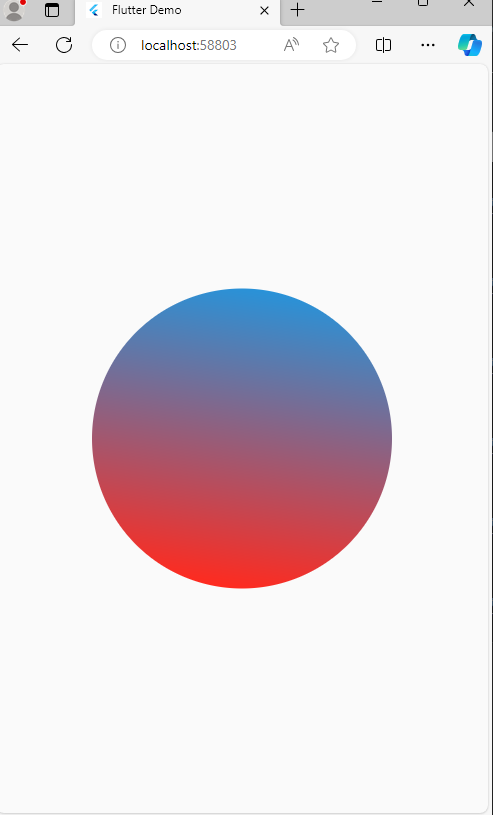
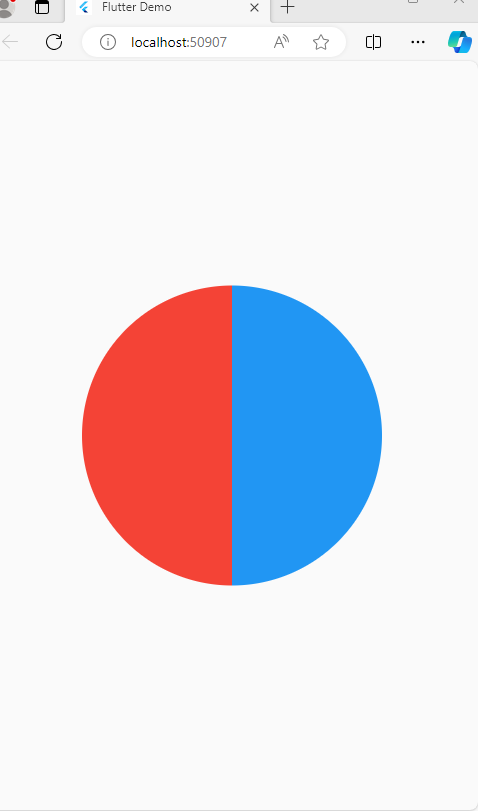
Day 4

diff --git a/Day1/assignment1/lib/ques18.dart b/Day1/assignment1/lib/ques18.dart
@@ -1,0 +1,50 @@
+// Create a screen and then add a floating action button.In thid button, you will have to display your name and an icon which must be placed in a row.
+
+import 'package:flutter/material.dart';
+
+class question18 extends StatefulWidget {
+  const question18({super.key});
+
+  @override
+  State<question18> createState() => _question18State();
+}
+
+class _question18State extends State<question18> {
+  @override
+  Widget build(BuildContext context) {
+    return Scaffold(
+      body: Center(
+        child: Column(
+          mainAxisAlignment: MainAxisAlignment.center,
+          children: [
+            SizedBox(
+              width: 200, // Adjust the width of the SizedBox as needed
+              height: 200, // Adjust the height of the SizedBox as needed
+              child: FloatingActionButton(
+                backgroundColor: Color.fromARGB(255, 38, 123, 202),
+                onPressed: () {},
+                child: const Row(
+                  mainAxisAlignment: MainAxisAlignment.center,
+                  children: [
+                    Icon(
+                      Icons.person,
+                    ),
+                    SizedBox(
+                      width: 40,
+                    ),
+                    Text(
+                      "Vinay",
+                      style: TextStyle(
+                        fontSize: 20,
+                      ),
+                    ),
+                  ],
+                ),
+              ),
+            ),
+          ],
+        ),
+      ),
+    );
+  }
+}

diff --git a/Day1/assignment1/lib/ques17.dart b/Day1/assignment1/lib/ques17.dart
@@ -1,0 +1,38 @@
+// Create an elevatedbutton in the center of the screen .The button must have rounded edges.Give a shadow of color red to button.
+
+// 1. The button must be circular.
+// 2. Size must be 200X200.
+// 3. Button must have border of red color.
+
+import 'package:flutter/material.dart';
+
+class question17 extends StatefulWidget {
+  const question17({super.key});
+
+  @override
+  State<question17> createState() => _question17State();
+}
+
+class _question17State extends State<question17> {
+  @override
+  Widget build(BuildContext context) {
+    return Scaffold(
+      body: Center(
+        child: ElevatedButton(
+          style: ElevatedButton.styleFrom(
+            shape: const RoundedRectangleBorder(
+                borderRadius: BorderRadius.all(Radius.circular(100))),
+            shadowColor: Colors.red,
+            elevation: 10,
+            fixedSize: const Size(200, 200),
+            side: const BorderSide(
+              color: Colors.red,
+            ),
+          ),
+          onPressed: () {},
+          child: const Text("Click"),
+        ),
+      ),
+    );
+  }
+}

diff --git a/Day1/assignment1/lib/ques20.dart b/Day1/assignment1/lib/ques20.dart
@@ -1,0 +1,39 @@
+// Create screen and a floatingactionbutton in the bottom center of the screen when button is long pressed change the color to purple.
+
+import 'package:flutter/material.dart';
+
+class question20 extends StatefulWidget {
+  const question20({super.key});
+
+  @override
+  State<question20> createState() => _question20State();
+}
+
+class _question20State extends State<question20> {
+  Color changedColor = Colors.orange;
+  @override
+  Widget build(BuildContext context) {
+    return Scaffold(
+        body: Center(
+      child: Column(
+        mainAxisAlignment: MainAxisAlignment.end,
+        crossAxisAlignment: CrossAxisAlignment.center,
+        children: [
+          SizedBox(
+            width: 100,
+            height: 100,
+            child: FloatingActionButton(
+              backgroundColor: changedColor,
+              onPressed: () {
+                setState(() {
+                  changedColor = Colors.purple;
+                });
+              },
+              child: const Text("Click me"),
+            ),
+          ),
+        ],
+      ),
+    ));
+  }
+}

diff --git a/Day1/assignment1/lib/ques15.dart b/Day1/assignment1/lib/ques15.dart
@@ -16,23 +16,19 @@ class _question15State extends State<question15> {
   Widget build(BuildContext context) {
     return Scaffold(
       body: Center(
-        child: Container(
-          width: 300,
-          height: 300,
-          decoration: const BoxDecoration(
-            shape: BoxShape.circle,
-            gradient: LinearGradient(
-              begin: Alignment.centerLeft,
-              end: Alignment.centerRight,
-              transform: GradientRotation(30),
-              colors: [
-                Color.fromRGBO(255, 34, 22, 11),
-                Color.fromRGBO(32, 142, 215, 0.961),
-              ],
-            ),
+          child: Container(
+        width: 300,
+        height: 300,
+        decoration: const BoxDecoration(
+          shape: BoxShape.circle,
+          gradient: LinearGradient(
+            colors: [Colors.red, Colors.blue],
+            begin: Alignment.centerLeft,
+            end: Alignment.centerRight,
+            stops: [0.5, 0.5],
           ),
         ),
-      ),
+      )),
     );
   }
 }

diff --git a/Day1/assignment1/lib/ques16.dart b/Day1/assignment1/lib/ques16.dart
@@ -1,0 +1,35 @@
+import 'package:flutter/material.dart';
+import 'package:google_fonts/google_fonts.dart';
+
+class question16 extends StatefulWidget {
+  const question16({super.key});
+
+  @override
+  State<question16> createState() => _question16State();
+}
+
+class _question16State extends State<question16> {
+  @override
+  Widget build(BuildContext context) {
+    return Scaffold(
+      body: Center(
+        child: ElevatedButton(
+          style: ElevatedButton.styleFrom(
+            shadowColor: Colors.red,
+            elevation: 5,
+            shape: RoundedRectangleBorder(
+              borderRadius: BorderRadius.circular(30),
+            ),
+          ),
+          onPressed: () {},
+          child: Text(
+            "Click me",
+            style: GoogleFonts.quicksand(
+              fontWeight: FontWeight.w800,
+            ),
+          ),
+        ),
+      ),
+    );
+  }
+}

diff --git a/Day1/assignment1/lib/ques19.dart b/Day1/assignment1/lib/ques19.dart
@@ -1,0 +1,34 @@
+// Add a floating action button on the screen and when we hover over the button the color of the button must become orange.
+
+import 'package:flutter/material.dart';
+
+class question19 extends StatefulWidget {
+  const question19({super.key});
+
+  @override
+  State<question19> createState() => _question19State();
+}
+
+class _question19State extends State<question19> {
+  bool hover = false;
+  @override
+  Widget build(BuildContext context) {
+    return Scaffold(
+      body: Center(
+        child: Container(
+          width: 200,
+          height: 100,
+          child: FloatingActionButton(
+            hoverColor: Colors.orange,
+            onPressed: () {
+              setState(() {
+                (hover) ? Colors.orange : Colors.blue;
+              });
+            },
+            child: const Text("Hover me"),
+          ),
+        ),
+      ),
+    );
+  }
+}

diff --git a/Day1/assignment1/lib/main.dart b/Day1/assignment1/lib/main.dart
@@ -1,11 +1,8 @@
 //import 'package:assignment1/ques2.dart';
 
 import 'package:flutter/material.dart';
-//import 'package:assignment1/ques11.dart';
-//import 'package:assignment1/ques12.dart';
-//import 'package:assignment1/ques13.dart';
-//import 'package:assignment1/ques14.dart';
-import 'package:assignment1/ques15.dart';
+
+import 'package:assignment1/ques20.dart';
 
 void main() {
   runApp(const MyApp());
@@ -19,7 +16,7 @@ class MyApp extends StatelessWidget {
     return const MaterialApp(
       title: 'Flutter Demo',
       debugShowCheckedModeBanner: false,
-      home: question15(),
+      home: question20(),
     );
   }
 }

diff --git a/Day1/assignment1/macos/Flutter/GeneratedPluginRegistrant.swift b/Day1/assignment1/macos/Flutter/GeneratedPluginRegistrant.swift
@@ -5,6 +5,8 @@
 import FlutterMacOS
 import Foundation
 
+import path_provider_foundation
 
 func RegisterGeneratedPlugins(registry: FlutterPluginRegistry) {
+  PathProviderPlugin.register(with: registry.registrar(forPlugin: "PathProviderPlugin"))
 }
